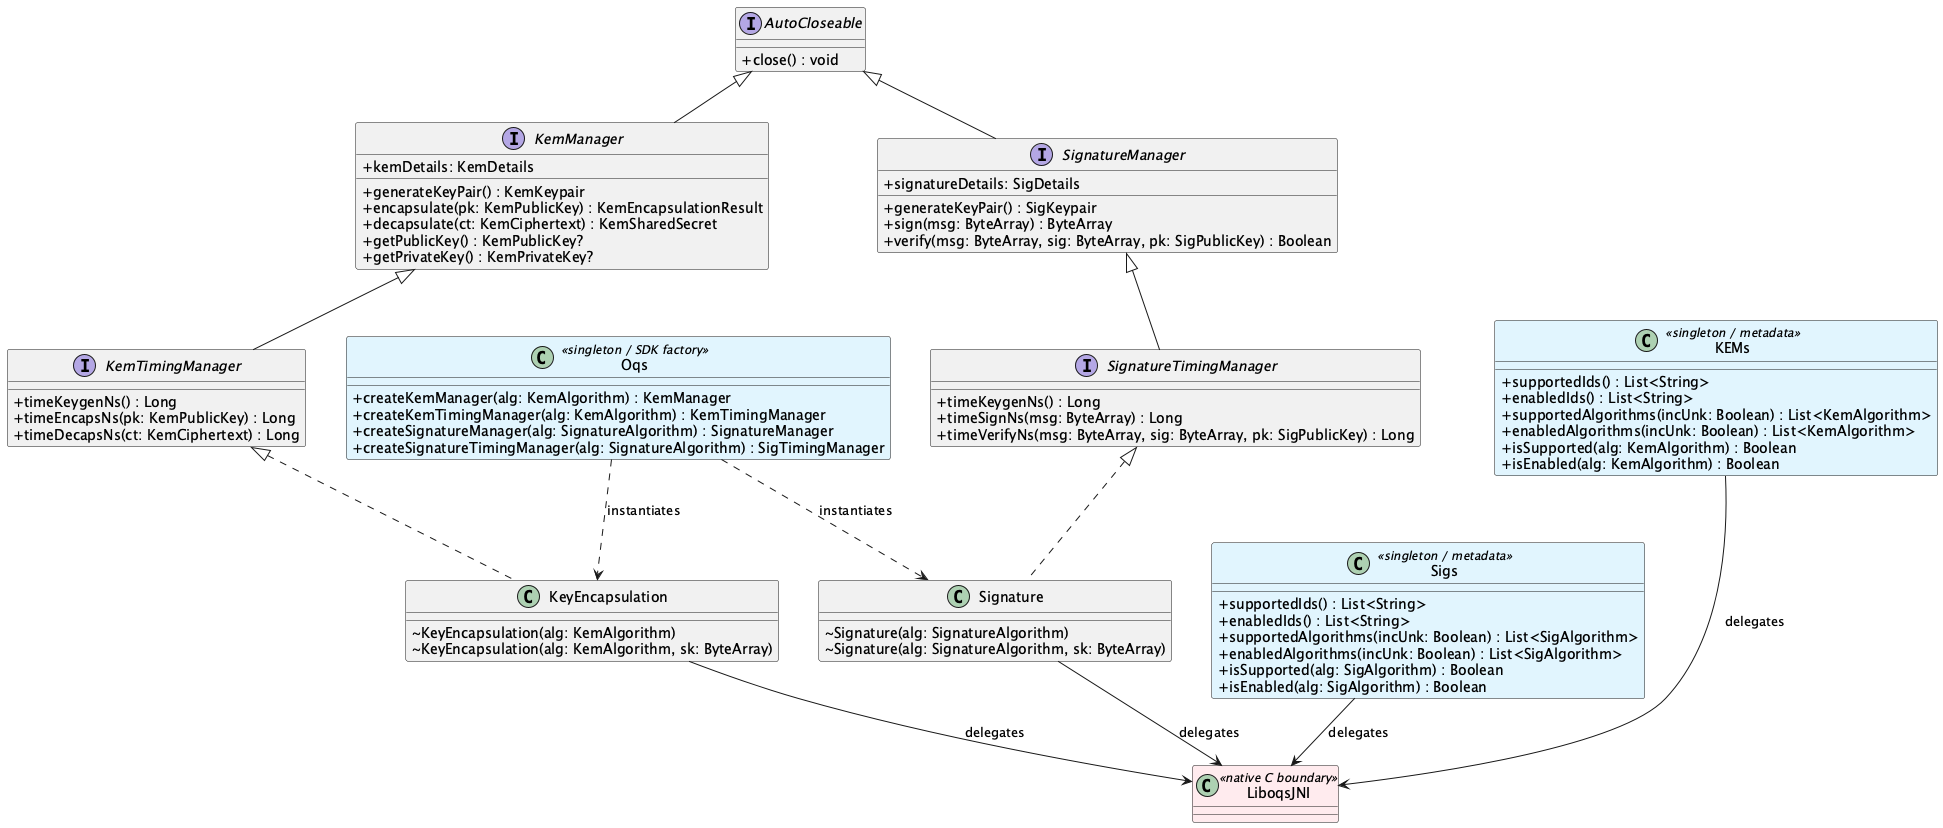
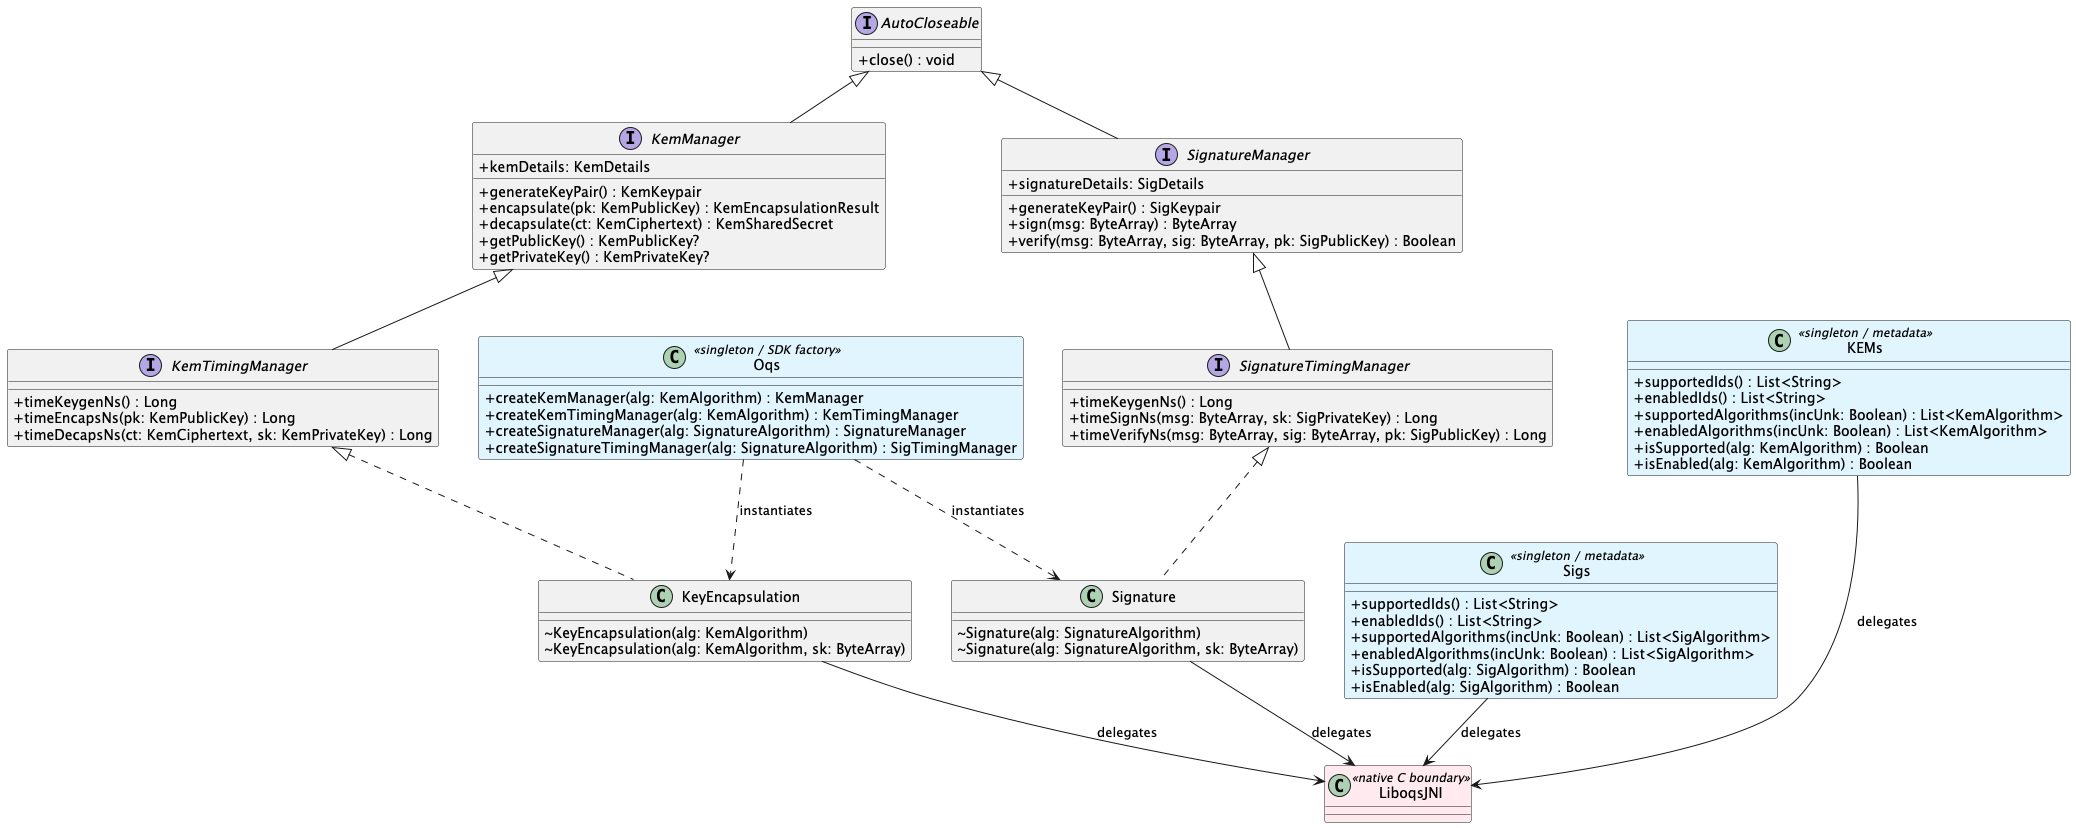
Docs: Update class diagram and README instructions

diff --git a/liboqs-android/docs/README.md b/liboqs-android/docs/README.md
@@ -143,19 +143,6 @@ The library follows a layered design:
   <img src="class-diagram.png" alt="liboqs-android class diagram" width="100%" />
 </p>
 
-<details>
-<summary>Regenerating the diagram</summary>
-
-The PlantUML source is stored in [`class-diagram.puml`](class-diagram.puml).
-After editing it, regenerate the images with:
-
-```bash
-java -jar plantuml.jar -tpng docs/class-diagram.puml
-java -jar plantuml.jar -tsvg docs/class-diagram.puml
-```
-
-</details>
-
 ## Package structure
 
 ```